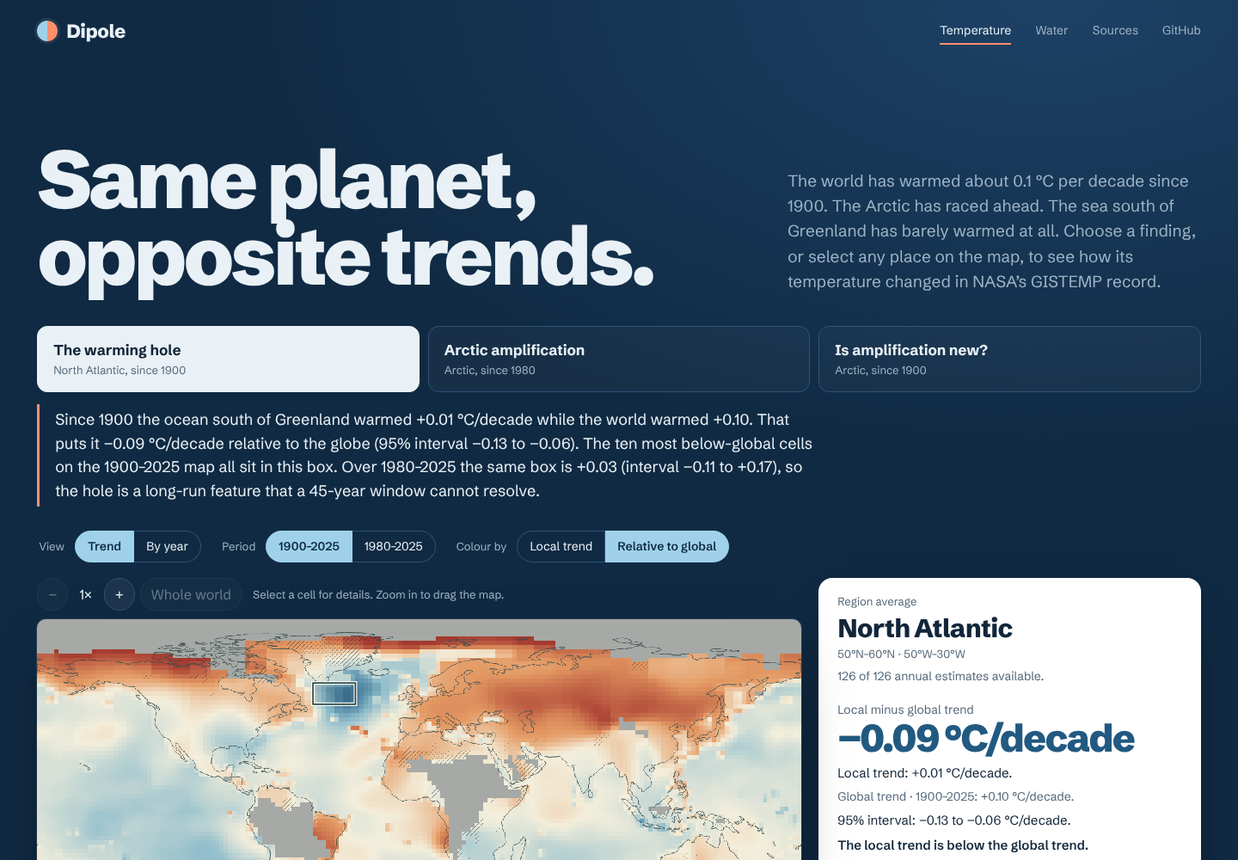
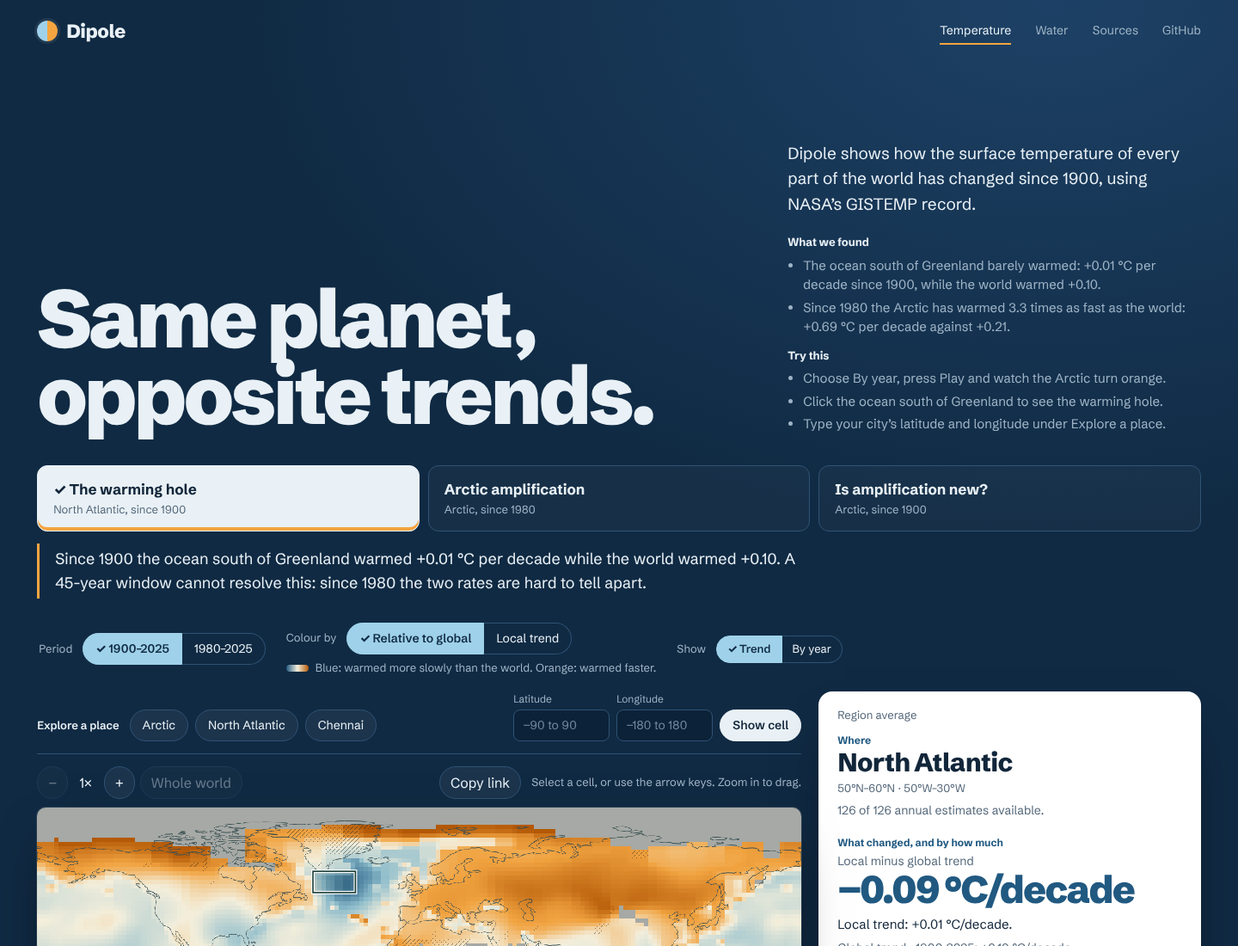
Act on site feedback: mobile order, shorter findings, sharing, play
- Opening text says what Dipole is, two findings with numbers, and
  three things to try; on phones the detail sits behind "Read more"
- Phones show the map and a two-sentence finding first, then controls
- Findings are two sentences; intervals stay in the details card
- Header stays on one row; Sources and GitHub fold into "More" < 480 px
- Period and "Colour by" lead the controls, with a line saying what
  blue and orange mean; selected buttons carry a check mark
- Map scale is blue to orange (clearer for red–green colour blindness)
- "Explore a place" and the latitude/longitude form sit above the map
- A tap on a phone shows that cell's reading on the map
- India's share is shown large above its table
- "Copy link" shares the finding, period, colours, year and place
- "Play" steps through the years in the By year view

Claude-Session: https://claude.ai/code/session_01SJVgjUYC3irxWuo7sdjrUw

diff --git a/docs/map/app.js b/docs/map/app.js
@@ -10,7 +10,8 @@ let byYear = false, selectedYear = 2015, scrubFrame;
 let fitLine, requestedYear = firstYear;
 let activeCase = "hole";
 const files = new Map();
-const colors = [[33,89,129], [141,188,203], [243,238,219], [228,154,99], [164,57,47]];
+// Blue to orange separates better than blue to red for red–green colour blindness.
+const colors = [[33,89,129], [141,188,203], [243,238,219], [241,163,64], [179,88,6]];
 let population, cells, coverage, regions, base, selected, series, selectedBounds;
 // Colour limits (°C/decade) chosen per view so that roughly the largest 2% of cells saturate.
 // One fixed ±1 scale washed out the long-period differences, which are about ±0.1.
@@ -23,26 +24,19 @@ const cases = {
 const fmt = (n, digits = 2) => (n < 0 ? "−" : "+") + Math.abs(n).toFixed(digits);
 function storyText(name) {
   const r80 = periods[1980].regions, r00 = periods[1900].regions;
-  const range = r => fmt(r.relative[1]) + " to " + fmt(r.relative[2]);
   if (name === "hole") {
-    const na = r00["North Atlantic"], na80 = r80["North Atlantic"];
-    return "Since 1900 the ocean south of Greenland warmed " + fmt(na.stats[0]) +
-      " °C/decade while the world warmed " + fmt(na.globalRate) + ". That puts it " + fmt(na.relative[0]) +
-      " °C/decade relative to the globe (95% interval " + range(na) + "). The ten most below-global cells on the 1900–2025 map all sit in this box. " +
-      "Over 1980–2025 the same box is " + fmt(na80.relative[0]) + " (interval " + range(na80) +
-      "), so the hole is a long-run feature that a 45-year window cannot resolve.";
+    const na = r00["North Atlantic"];
+    return "Since 1900 the ocean south of Greenland warmed " + fmt(na.stats[0]) + " °C per decade while the world warmed " +
+      fmt(na.globalRate) + ". A 45-year window cannot resolve this: since 1980 the two rates are hard to tell apart.";
   }
   if (name === "arctic") {
     const a = r80.Arctic;
-    return "Since 1980 the Arctic warmed " + fmt(a.stats[0]) + " °C/decade, " +
-      (a.stats[0] / a.globalRate).toFixed(1) + "× the global " + fmt(a.globalRate) + ". The gap is " +
-      fmt(a.relative[0]) + " °C/decade (95% interval " + range(a) + "). Same planet, same years, very different rates.";
+    return "Since 1980 the Arctic warmed " + fmt(a.stats[0]) + " °C per decade, " + (a.stats[0] / a.globalRate).toFixed(1) +
+      " times the world’s " + fmt(a.globalRate) + ". Same planet, same years, very different rates.";
   }
   const a = r00.Arctic, a80 = r80.Arctic;
-  return "Fitted over " + a.fitStart + "–2025 (the Arctic record has a gap in " + (a.fitStart - 1) +
-    "), the Arctic runs only " + fmt(a.relative[0]) + " °C/decade above the globe (interval " + range(a) + "), against " +
-    fmt(a80.relative[0]) + " since 1980. The chart shows why: a warm Arctic spell in the 1930s–40s flattens the long-run line. " +
-    "Most of the excess Arctic warming is recent.";
+  return "Over " + a.fitStart + "–2025 the Arctic ran only " + fmt(a.relative[0]) + " °C per decade above the world, against " +
+    fmt(a80.relative[0]) + " since 1980. A warm Arctic spell in the 1930s and 1940s flattens the long-run line, so most of the extra warming is recent.";
 }
 const changeText = n => (n < 0 ? "−" : "+") + Math.abs(n).toFixed(2);
 const latText = v => Math.abs(v) + "°" + (v > 0 ? "N" : v < 0 ? "S" : "");
@@ -257,6 +251,7 @@ function show(selection, reveal = true) {
   } else {
     showTrendDetails(stats, relative, fitStart, globalRate, selection.cell);
   }
+  writeHash();
   for (const button of $("presets").querySelectorAll("button")) {
     button.setAttribute("aria-pressed",String(button.dataset.region ? selection.region===button.dataset.region :
       selection.cell===cellAt(+button.dataset.lat,+button.dataset.lon)));
@@ -398,7 +393,10 @@ map.addEventListener("pointerup", event => {
   if (drag?.id !== event.pointerId) return;
   const wasTap = !drag.moved;
   endDrag(event);
-  if (wasTap) show({cell: pointerCell(event, map.getBoundingClientRect())});
+  if (wasTap) {
+    show({cell: pointerCell(event, map.getBoundingClientRect())});
+    if (event.pointerType === "touch") hoverCell(event, map.getBoundingClientRect());
+  }
 });
 function endDrag(event) {
   if (drag?.id !== event.pointerId) return;
@@ -407,7 +405,7 @@ function endDrag(event) {
 }
 map.addEventListener("pointercancel", endDrag);
 map.addEventListener("lostpointercapture", endDrag);
-map.addEventListener("pointerleave", () => { tip.hidden = true; });
+map.addEventListener("pointerleave", event => { if (event.pointerType !== "touch") tip.hidden = true; });
 map.addEventListener("keydown",e=>{
   if (e.key === "Escape") tip.hidden = true;
   if (!selected || !["ArrowUp","ArrowDown","ArrowLeft","ArrowRight"].includes(e.key)) return;
@@ -503,6 +501,8 @@ function showExposure() {
   $("exposureRows").replaceChildren(...rows);
   const share = 100 * groups.india.faster / groups.india.valid;
   $("indiaFasterBar").style.width = share + "%";
+  $("indiaShare").textContent = share.toFixed(1) + "%";
+  $("indiaPeriod").textContent = firstYear + "–" + period.end;
   $("indiaFasterLabel").textContent = share.toFixed(1) + "% faster than global";
   $("indiaOtherLabel").textContent = (100 - share).toFixed(1) + "% at or below global";
   $("exposureIntervals").textContent = "";
@@ -536,7 +536,10 @@ function render(reveal = false) {
   $("story").hidden = !activeCase;
   $("missingLabel").textContent = byYear ? "Missing this year" : "Incomplete record";
   map.setAttribute("aria-label", "World temperature " + (byYear ? "anomaly" : "trend") + " map. Click a cell or move with the arrow keys.");
-  $("legendText").textContent = byYear ? "Temperature above or below the 1951–1980 average" : mode === "relative" ? "Local minus global · blue below global, red above" : "Temperature trend";
+  $("modeHint").textContent = byYear ? "Blue: colder than the 1951–1980 average. Orange: warmer." :
+    mode === "relative" ? "Blue: warmed more slowly than the world. Orange: warmed faster." : "Blue: cooled. Orange: warmed.";
+  writeHash();
+  $("legendText").textContent = byYear ? "Temperature above or below the 1951–1980 average" : mode === "relative" ? "Local minus global" : "Temperature trend";
   makeMap(land);
   regionalTable();
   showExposure();
@@ -577,10 +580,12 @@ async function selectPeriod(start, reveal = false) {
 $("views").addEventListener("click", event => {
   if (!cells || !event.target.dataset.view) return;
   byYear = event.target.dataset.view === "annual";
+  if (!byYear) stopPlay();
   activeCase = null;
   render();
 });
-$("year").addEventListener("input", () => {
+$("year").addEventListener("input", event => {
+  if (event.isTrusted) { stopPlay(); resumable = false; }
   selectedYear = Number($("year").value);
   $("yearValue").value = selectedYear;
   if (scrubFrame) return;
@@ -593,7 +598,73 @@ $("year").addEventListener("input", () => {
     showAnnualDetails();
     drawSeries(series);
     regionalTable();
+    writeHash();
   });
+});
+// Play: step through the years so the map animates.
+let playTimer = null, resumable = false;
+function stopPlay() {
+  clearInterval(playTimer);
+  playTimer = null;
+  $("playYear").textContent = "Play";
+  $("playYear").setAttribute("aria-pressed", "false");
+}
+$("playYear").addEventListener("click", () => {
+  if (playTimer) { resumable = true; return stopPlay(); }
+  const slider = $("year");
+  // Start from the first year unless resuming after Pause, so the whole record plays.
+  const fresh = !resumable || Number(slider.value) >= period.end;
+  resumable = false;
+  $("playYear").textContent = "Pause";
+  $("playYear").setAttribute("aria-pressed", "true");
+  const step = () => {
+    slider.value = Number(slider.value) + 1;
+    slider.dispatchEvent(new Event("input"));
+    if (Number(slider.value) >= period.end) stopPlay();
+  };
+  if (fresh) { slider.value = firstYear; slider.dispatchEvent(new Event("input")); } else step();
+  playTimer = setInterval(step, matchMedia("(prefers-reduced-motion: reduce)").matches ? 600 : 220);
+});
+
+// 9. Shareable links: the view, period, colours, year, finding and place live in the URL hash.
+function writeHash() {
+  if (!cells || !selected) return;
+  const state = new URLSearchParams();
+  if (activeCase) state.set("finding", activeCase);
+  state.set("period", firstYear);
+  state.set("view", byYear ? "year" : "trend");
+  if (byYear) state.set("year", selectedYear); else state.set("colour", mode);
+  if (selected.region) state.set("region", selected.region);
+  else {
+    const row = Math.floor(selected.cell / cols), col = selected.cell % cols;
+    state.set("cell", (-89 + 2 * row) + "," + (-179 + 2 * col));
+  }
+  history.replaceState(null, "", "#" + state.toString());
+}
+function readHash() {
+  const state = new URLSearchParams(location.hash.slice(1));
+  if (!state.toString()) return;
+  const start = Number(state.get("period"));
+  if (start === 1900 || start === 1980) firstYear = start;
+  if (state.get("colour") === "absolute" || state.get("colour") === "relative") mode = state.get("colour");
+  byYear = state.get("view") === "year";
+  if (state.has("year")) selectedYear = Number(state.get("year")) || selectedYear;
+  activeCase = cases[state.get("finding")] ? state.get("finding") : null;
+  if (state.has("region")) selected = {region: state.get("region")};
+  else if (state.has("cell")) {
+    const [lat, lon] = state.get("cell").split(",").map(Number);
+    if (Number.isFinite(lat) && Number.isFinite(lon)) selected = {cell: cellAt(lat, lon)};
+  }
+}
+$("copyLink").addEventListener("click", async () => {
+  writeHash();
+  try {
+    await navigator.clipboard.writeText(location.href);
+    $("copyLink").textContent = "Link copied";
+  } catch {
+    prompt("Copy this link:", location.href);
+  }
+  setTimeout(() => { $("copyLink").textContent = "Copy link"; }, 2000);
 });
 
 $("periods").addEventListener("click", event => {
@@ -625,6 +696,8 @@ async function load() {
   $("cases").disabled = false;
   $("periods").disabled = false;
   $("modes").disabled = false;
+  readHash();
+  if (selected?.region && !periods[firstYear].regions[selected.region]) selected = null;
   await selectPeriod(firstYear);
 }
 load().catch(() => { $("status").textContent = "The map data could not load. Reload the page to try again."; });

diff --git a/docs/index.html b/docs/index.html
@@ -8,16 +8,29 @@
 <title>Dipole · Same planet, opposite trends</title>
 <meta name="description" content="Explore how surface temperature changed at every place on Earth since 1900, using NASA’s GISTEMP record.">
 <link rel="preload" href="fonts/schibsted-grotesk-latin-wght-normal.woff2" as="font" type="font/woff2" crossorigin>
-<link rel="stylesheet" href="map/style.css?v=design-2">
-<script src="map/app.js?v=design-2" defer></script>
+<link rel="stylesheet" href="map/style.css?v=feedback-1">
+<script src="map/app.js?v=feedback-1" defer></script>
+<script>matchMedia("(max-width: 640px)").matches && document.addEventListener("DOMContentLoaded", () => document.querySelector(".readmore").open = false);</script>
 </head>
 <body>
 <div class="deep">
-<header class="top"><a class="brand" href="./"><span class="brandmark" aria-hidden="true"></span>Dipole</a><nav aria-label="Project"><a href="./" aria-current="page">Temperature</a><a href="water/">Water</a><a href="https://github.com/OmTheLast/Dipole/blob/main/docs/sources.md">Sources</a><a href="https://github.com/OmTheLast/Dipole">GitHub</a></nav></header>
+<header class="top"><a class="brand" href="./"><span class="brandmark" aria-hidden="true"></span>Dipole</a><nav aria-label="Project"><a href="./" aria-current="page">Temperature</a><a href="water/">Water</a><a class="widelink" href="https://github.com/OmTheLast/Dipole/blob/main/docs/sources.md">Sources</a><a class="widelink" href="https://github.com/OmTheLast/Dipole">GitHub</a><details class="moremenu"><summary>More</summary><div><a href="https://github.com/OmTheLast/Dipole/blob/main/docs/sources.md">Sources</a><a href="https://github.com/OmTheLast/Dipole">GitHub</a></div></details></nav></header>
 
 <section class="hero">
 <h1>Same planet,<br>opposite trends.</h1>
-<p class="lede">The world has warmed about 0.1 °C per decade since 1900. The Arctic has raced ahead. The sea south of Greenland has barely warmed at all. Choose a finding, or select any place on the map, to see how its temperature changed in NASA’s GISTEMP record.</p>
+<div class="herotext">
+<p class="lede">Dipole shows how the surface temperature of every part of the world has changed since 1900, using NASA’s GISTEMP record.</p>
+<details class="readmore" open><summary>Read more</summary>
+<div class="heromore">
+<h2>What we found</h2>
+<ul><li>The ocean south of Greenland barely warmed: +0.01 °C per decade since 1900, while the world warmed +0.10.</li>
+<li>Since 1980 the Arctic has warmed 3.3 times as fast as the world: +0.69 °C per decade against +0.21.</li></ul>
+<h2>Try this</h2>
+<ul><li>Choose By year, press Play and watch the Arctic turn orange.</li>
+<li>Click the ocean south of Greenland to see the warming hole.</li>
+<li>Type your city’s latitude and longitude under Explore a place.</li></ul>
+</div></details>
+</div>
 </section>
 
 <fieldset id="cases" class="cases" disabled><legend class="visually-hidden">Start with a finding</legend>
@@ -28,25 +41,26 @@
 <p id="story" class="story"></p>
 
 <div class="controls">
-<fieldset id="views" class="segmented" disabled><legend>View</legend><button data-view="trend" aria-pressed="true">Trend</button><button data-view="annual" aria-pressed="false">By year</button></fieldset>
 <fieldset id="periods" class="segmented" disabled><legend>Period</legend><button data-start="1900" aria-pressed="true">1900–2025</button><button data-start="1980" aria-pressed="false">1980–2025</button></fieldset>
-<fieldset id="modes" class="segmented" disabled><legend>Colour by</legend><button data-mode="absolute" aria-pressed="false">Local trend</button><button data-mode="relative" aria-pressed="true">Relative to global</button></fieldset>
+<div class="modegroup"><fieldset id="modes" class="segmented" disabled><legend>Colour by</legend><button data-mode="relative" aria-pressed="true">Relative to global</button><button data-mode="absolute" aria-pressed="false">Local trend</button></fieldset>
+<p id="modeHint" class="modehint">Blue: warmed more slowly than the world. Orange: warmed faster.</p></div>
+<fieldset id="views" class="segmented minor" disabled><legend>Show</legend><button data-view="trend" aria-pressed="true">Trend</button><button data-view="annual" aria-pressed="false">By year</button></fieldset>
 </div>
-<div id="scrubber" hidden><label for="year">Year <output id="yearValue" for="year">2015</output></label>
+<div id="scrubber" hidden><div class="scrubhead"><label for="year">Year <output id="yearValue" for="year">2015</output></label><button type="button" id="playYear" aria-pressed="false">Play</button></div>
 <div class="yeartrack"><span id="startLabel">1980</span><input id="year" type="range" min="1980" max="2025" step="1" value="2015"><span>2025</span></div></div>
 <p id="status" role="status">Loading NASA temperature estimates…</p>
 
 <div class="workspace">
 <section class="atlas" aria-label="Global temperature map">
+<div class="locations"><div class="presets" id="presets"><span class="presetlabel">Explore a place</span>
+<button data-region="Arctic">Arctic</button><button data-region="North Atlantic">North Atlantic</button><button data-lat="13.08" data-lon="80.27">Chennai</button></div>
+<form id="coords"><label>Latitude<input type="number" name="lat" required min="-90" max="90" step="any" placeholder="−90 to 90"></label><label>Longitude<input type="number" name="lon" required min="-180" max="180" step="any" placeholder="−180 to 180"></label><button type="submit">Show cell</button></form></div>
 <div class="maptools" role="group" aria-label="Map navigation">
 <button id="zoomOut" aria-label="Zoom out" disabled>−</button><output id="zoomLevel" aria-label="Map zoom">1×</output><button id="zoomIn" aria-label="Zoom in" disabled>+</button>
-<button id="worldView" disabled>Whole world</button><span id="mapHint">Select a cell for details. Zoom in to drag the map.</span>
+<button id="worldView" disabled>Whole world</button><button id="copyLink" type="button">Copy link</button><span id="mapHint">Select a cell, or use the arrow keys. Zoom in to drag.</span>
 </div>
 <div class="maparea"><canvas id="map" tabindex="0" aria-describedby="mapHint" aria-label="World temperature map"></canvas><div id="cellTip" hidden></div></div>
 <div class="legend"><div class="legendscale"><span class="legendtitle"><span id="legendText">Temperature trend</span> <span id="legendUnits">°C / decade</span></span><div class="scale"><div class="gradient"></div><div class="ticks"><span id="scaleLow">≤ −1</span><span>0</span><span id="scaleHigh">≥ +1</span></div></div></div><span class="missing"><i></i> <span id="missingLabel">Incomplete record</span></span><span id="overlayKey" class="overlaykey"><span class="hatchkey"><i></i> 250 km grid has data in fewer than half the months</span></span></div>
-<div class="locations"><div class="presets" id="presets"><span class="presetlabel">Jump to</span>
-<button data-region="Arctic">Arctic</button><button data-region="North Atlantic">North Atlantic</button><button data-lat="13.08" data-lon="80.27">Chennai</button></div>
-<form id="coords"><label>Latitude<input type="number" name="lat" required min="-90" max="90" step="any" placeholder="−90 to 90"></label><label>Longitude<input type="number" name="lon" required min="-180" max="180" step="any" placeholder="−180 to 180"></label><button type="submit">Show cell</button></form></div>
 </section>
 
 <section class="inspector" aria-label="Selected location">
@@ -62,6 +76,7 @@
 <div class="chapterhead"><h2 id="exposureHeading">Who lives where it is warming faster than the world?</h2>
 <p id="exposureCaption">Loading 2020 population estimates…</p></div>
 <div id="exposureData" hidden>
+<p class="bignumber"><span id="indiaShare">–</span> of people in India live in places that warmed faster than the world over <span id="indiaPeriod">1900–2025</span>.</p>
 <figure class="populationBar"><figcaption>India’s residents in cells with a temperature trend</figcaption>
 <div class="populationTrack" aria-hidden="true"><span id="indiaFasterBar"></span></div>
 <div class="populationLabels"><span id="indiaFasterLabel"></span><span id="indiaOtherLabel"></span></div></figure>

diff --git a/docs/map/style.css b/docs/map/style.css
@@ -12,8 +12,8 @@
   --ocean-2: #1a3a5c;    /* raised surfaces on the stage */
   --ocean-line: #2f5275;
   --ice: #9fd2ea;        /* cooler than the world */
-  --ember: #ff8f6b;      /* warmer than the world (on dark) */
-  --brick: #b2432f;      /* warmer than the world (on light) */
+  --ember: #f5a540;      /* warmer than the world (on dark) */
+  --brick: #a24f05;      /* warmer than the world (on light) */
   --deepblue: #215981;   /* cooler than the world (on light) */
   --foam: #e9f1f6;       /* text on the stage */
   --haze: #9fb4c6;       /* secondary text on the stage */
@@ -109,7 +109,7 @@ canvas { display: block; width: 100% }
 .legendtitle { color: var(--foam) }
 #legendUnits { color: var(--haze) }
 .scale { width: 190px }
-.gradient { height: 10px; border-radius: 999px; background: linear-gradient(90deg, #215981, #8dbccb, #f3eedb, #e49a63, #a4392f) }
+.gradient { height: 10px; border-radius: 999px; background: linear-gradient(90deg, #215981, #8dbccb, #f3eedb, #f1a340, #b35806) }
 .ticks { display: flex; justify-content: space-between; margin-top: 3px; font-size: 12px }
 .missing, .overlaykey > span { display: flex; align-items: center; gap: 6px }
 .missing i, .hatchkey i { width: 12px; height: 12px; border-radius: 2px }
@@ -147,7 +147,7 @@ canvas { display: block; width: 100% }
 .caption { font-size: 13px; color: var(--mist) }
 .chartkey { display: flex; flex-wrap: wrap; gap: 4px 16px; margin-top: 10px; font-size: 13px }
 .chartkey span::before { content: ""; display: inline-block; width: 16px; margin-right: 6px; vertical-align: middle; border-top: 2.5px solid #1d5f86 }
-.chartkey span:nth-child(2)::before { border-color: #d0794f }
+.chartkey span:nth-child(2)::before { border-color: #c9781e }
 .chartkey span:nth-child(3)::before { border-top: 2px dashed var(--ink) }
 #plot { height: 150px; margin: 10px 0 6px }
 summary { cursor: pointer; font-size: 14px; font-weight: 600 }
@@ -176,7 +176,7 @@ table { width: 100%; border-collapse: collapse; text-align: left; font-size: 13p
 .populationBar { max-width: 760px; margin-bottom: 28px }
 .populationBar figcaption { font-size: 14px; font-weight: 600 }
 .populationTrack { height: 22px; margin: 10px 0 8px; border-radius: 999px; overflow: hidden; background: #8dbccb }
-.populationTrack span { display: block; height: 100%; background: linear-gradient(90deg, #a4392f, #e49a63) }
+.populationTrack span { display: block; height: 100%; background: linear-gradient(90deg, #b35806, #f1a340) }
 .populationLabels { display: flex; justify-content: space-between; gap: 8px; font-size: 14px; color: var(--mist) }
 
 .water-teaser { display: grid; grid-template-columns: minmax(0, 1fr) auto; align-items: end; gap: 16px 40px }
@@ -195,7 +195,6 @@ footer { display: grid; gap: 4px; padding: 32px 0 48px; border-top: 1px solid va
 @media (max-width: 640px) {
   .top { height: 60px }
   .top nav { gap: 12px; font-size: 13px }
-  .top nav a[href*=sources] { display: none }
   .cases { grid-template-columns: 1fr }
   .cases button { padding: 11px 14px }
   .segmented legend { float: none; display: block; margin-bottom: 4px }
@@ -207,3 +206,64 @@ footer { display: grid; gap: 4px; padding: 32px 0 48px; border-top: 1px solid va
   #details, .history, .kind { padding-inline: 16px }
 }
 @media (prefers-reduced-motion: reduce) { * { transition: none !important } }
+
+/* ---------- feedback round ---------- */
+/* header: one row; Sources and GitHub fold into "More" on small phones */
+.moremenu { display: none; position: relative }
+.moremenu summary { list-style: none; color: var(--haze); cursor: pointer; font-weight: 400; font-size: inherit }
+.moremenu summary::-webkit-details-marker { display: none }
+.moremenu summary::after { content: " ▾" }
+.moremenu div { position: absolute; right: 0; top: 30px; z-index: 5; display: grid; gap: 8px; padding: 12px 16px; background: var(--ocean-2); border: 1px solid var(--ocean-line); border-radius: 10px; white-space: nowrap }
+.top nav { align-items: center; white-space: nowrap }
+
+/* hero text: what it is, what we found, what to try */
+.herotext { display: grid; gap: 14px; max-width: 52ch }
+.herotext .lede { color: var(--foam) }
+.readmore summary { display: none }
+.heromore { display: grid; gap: 6px; font-size: 15px; color: var(--haze) }
+.heromore h2 { font-size: 13px; font-weight: 700; color: var(--foam); margin-top: 6px }
+.heromore ul { margin: 0; padding-left: 18px; display: grid; gap: 4px }
+
+/* controls: the two that change the map most come first; a line says what the colours mean */
+.modegroup { display: grid; gap: 6px }
+.modehint { font-size: 13px; color: var(--haze); padding-left: 2px }
+.modehint::before { content: ""; display: inline-block; width: 26px; height: 8px; margin-right: 8px; border-radius: 4px; vertical-align: middle; background: linear-gradient(90deg, #215981, #f3eedb, #b35806) }
+.segmented.minor button { padding: 5px 12px; font-size: 13px }
+/* selected state reads without colour too: a check mark and heavier text */
+.segmented button[aria-pressed=true]::before, .cases button[aria-pressed=true] b::before { content: "✓ "; font-weight: 800 }
+.cases button[aria-pressed=true] { box-shadow: inset 0 -4px 0 var(--ember) }
+.waterPanel button[aria-pressed=true]::before { content: "✓ " }
+
+/* play the years */
+.scrubhead { display: flex; align-items: center; justify-content: space-between; gap: 12px }
+#playYear { cursor: pointer; padding: 6px 16px; border-radius: 999px; border: 1px solid var(--ice); background: var(--ice); color: var(--ocean); font-weight: 700 }
+#playYear[aria-pressed=true] { background: transparent; color: var(--foam) }
+#copyLink { margin-left: auto }
+
+/* explore a place sits above the map */
+.atlas .locations { margin: 0 0 14px; padding: 0 0 14px; border-top: 0; border-bottom: 1px solid var(--ocean-line) }
+.presetlabel { color: var(--foam); font-weight: 600 }
+
+/* India's share, large */
+.bignumber { max-width: 30ch; margin-bottom: 18px; font-size: clamp(20px, 2vw, 26px); line-height: 1.3; font-weight: 600 }
+#indiaShare { display: block; font-size: clamp(64px, 9vw, 120px); line-height: .95; font-weight: 850; letter-spacing: -.04em; color: var(--brick) }
+
+@media (max-width: 640px) {
+  /* map and a one-line finding first; the long text waits behind "Read more" */
+  .deep { display: flex; flex-direction: column }
+  .deep > .top { order: 0 } .deep > .hero { order: 1; padding-bottom: 18px }
+  .deep > #story { order: 2; margin-bottom: 16px } .deep > #status { order: 3 }
+  .deep > .workspace { display: contents }
+  .atlas { order: 4; display: flex; flex-direction: column }
+  .atlas .maparea { order: 1 } .atlas .legend { order: 2 } .atlas .maptools { order: 3; margin-top: 12px } .atlas .locations { order: 4; margin-top: 14px; padding-top: 14px; border-top: 1px solid var(--ocean-line); border-bottom: 0 }
+  .deep > .controls { order: 5; margin-top: 22px } .deep > #scrubber { order: 6 } .deep > .cases { order: 7; margin-top: 8px }
+  .inspector { order: 8; margin-top: 20px }
+  .readmore summary { display: inline-block; color: var(--ice); font-weight: 600; font-size: 15px }
+  .readmore[open] summary { margin-bottom: 8px }
+  .story { font-size: 15px }
+  #copyLink { margin-left: 0 }
+}
+@media (max-width: 480px) {
+  .widelink { display: none }
+  .moremenu { display: block }
+}

diff --git a/docs/water/index.html b/docs/water/index.html
@@ -1,10 +1,10 @@
 <!doctype html>
 <html lang="en"><head><meta charset="utf-8"><meta name="viewport" content="width=device-width, initial-scale=1"><meta name="theme-color" content="#102a43"><link rel="icon" href="../favicon.svg" type="image/svg+xml">
 <title>Northwest India water storage · Dipole</title>
-<link rel="preload" href="../fonts/schibsted-grotesk-latin-wght-normal.woff2" as="font" type="font/woff2" crossorigin><link rel="stylesheet" href="../map/style.css?v=design-2"><link rel="stylesheet" href="water.css?v=design-2"><script type="module" src="water.js?v=design-2"></script></head>
+<link rel="preload" href="../fonts/schibsted-grotesk-latin-wght-normal.woff2" as="font" type="font/woff2" crossorigin><link rel="stylesheet" href="../map/style.css?v=feedback-1"><link rel="stylesheet" href="water.css?v=design-2"><script type="module" src="water.js?v=design-2"></script></head>
 <body>
 <div class="deep waterdeep">
-<header class="top"><a class="brand" href="../"><span class="brandmark" aria-hidden="true"></span>Dipole</a><nav aria-label="Project"><a href="../">Temperature</a><a href="./" aria-current="page">Water</a><a href="https://github.com/OmTheLast/Dipole/blob/main/docs/sources.md">Sources</a><a href="https://github.com/OmTheLast/Dipole">GitHub</a></nav></header>
+<header class="top"><a class="brand" href="../"><span class="brandmark" aria-hidden="true"></span>Dipole</a><nav aria-label="Project"><a href="../">Temperature</a><a href="./" aria-current="page">Water</a><a class="widelink" href="https://github.com/OmTheLast/Dipole/blob/main/docs/sources.md">Sources</a><a class="widelink" href="https://github.com/OmTheLast/Dipole">GitHub</a><details class="moremenu"><summary>More</summary><div><a href="https://github.com/OmTheLast/Dipole/blob/main/docs/sources.md">Sources</a><a href="https://github.com/OmTheLast/Dipole">GitHub</a></div></details></nav></header>
 <section class="hero"><h1>Water after the monsoon.</h1>
 <p class="lede">NASA’s GRACE and GRACE-FO satellites sense tiny changes in Earth’s gravity as water moves. How much water did Rajasthan, Punjab, Haryana and Delhi store after each rainy season since 2002?</p></section>
 </div>
